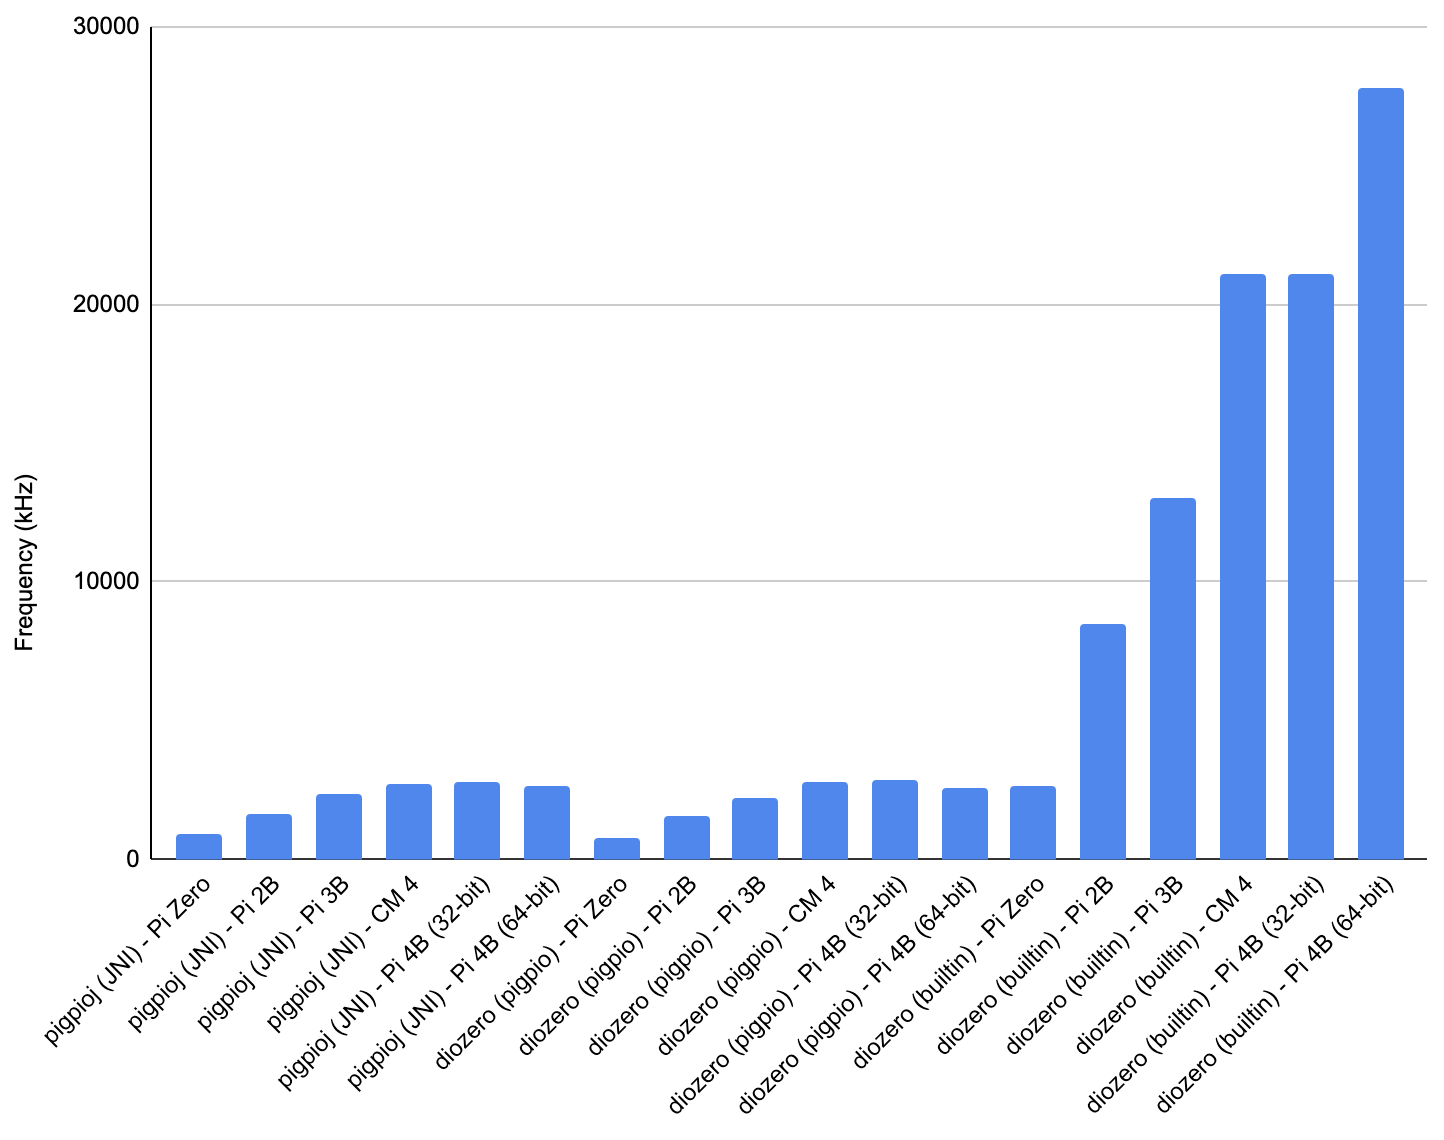
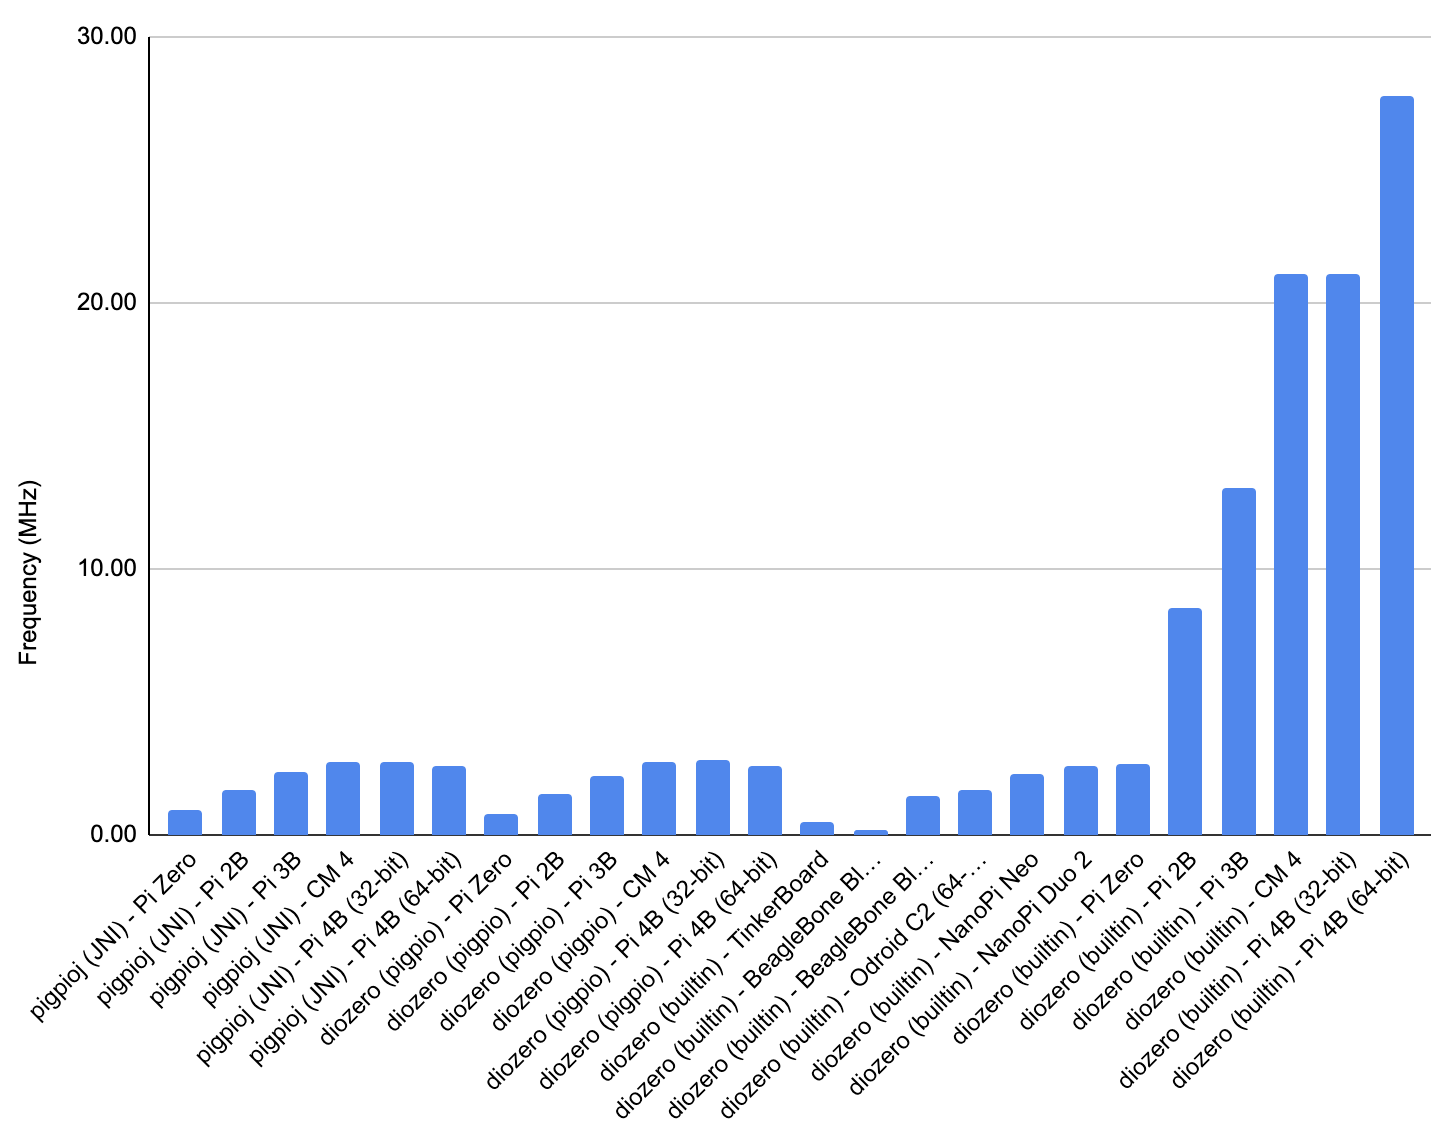
Updated performance numbers

Changed region(s): [[0.0, 0.0614, 0.9972, 0.9825], [0.0312, 0.0, 0.1247, 0.0614], [0.7479, 0.9518, 0.7791, 0.9825]]

diff --git a/docs/docs/7_Performance.md b/docs/docs/7_Performance.md
@@ -24,8 +24,9 @@ Results (with diozero 1.2.0 and pigpioj 2.5.7):
 > * All tests were performed with OpenJDK 11 ("11.0.9.1" 2020-11-04) using default settings.
 > * An LED was connected to the GPIO to verify that the GPIO was being toggled.
 > * The Pi 3B diozero (builtin) results have been verified with an oscilloscope.
-> * Operating System and libraries were all current as of April 2021 (RaspiOS 5.10.17-v7+).
+> * Operating System and libraries were all current as of April 2021 (RaspiOS 5.10.17-v7+, Armbian 5.10.21).
 > * Operating Systems are 32-bit unless otherwise stated.
+> * mmap controlled GPIO is not currently available for the BeagleBone Black using the built-in provider - it is via the BBBioLib provider.
 
 ## Conclusion
 
@@ -50,7 +51,11 @@ Results (with diozero 1.2.0 and pigpioj 2.5.7):
 | diozero (pigpio) | Pi 4B (32-bit) | 2,858 |
 | diozero (pigpio) | Pi 4B (64-bit) | 2,598 |
 | diozero (builtin) | TinkerBoard | 515 |
-| diozero (builtin) | Odroid C2 | 1,693 |
+| diozero (builtin) | BeagleBone Black | 191 |
+| diozero (builtin) | BeagleBone Black (BBBioLib) | 1,453 |
+| diozero (builtin) | Odroid C2 | 1,668 |
+| diozero (builtin) | NanoPi Neo | 2,328 |
+| diozero (builtin) | NanoPi Duo 2 | 2,605 |
 | diozero (builtin) | Pi Zero | 2,644 |
 | diozero (builtin) | Pi 2B | 8,503 |
 | diozero (builtin) | Pi 3B | 13,028 |
